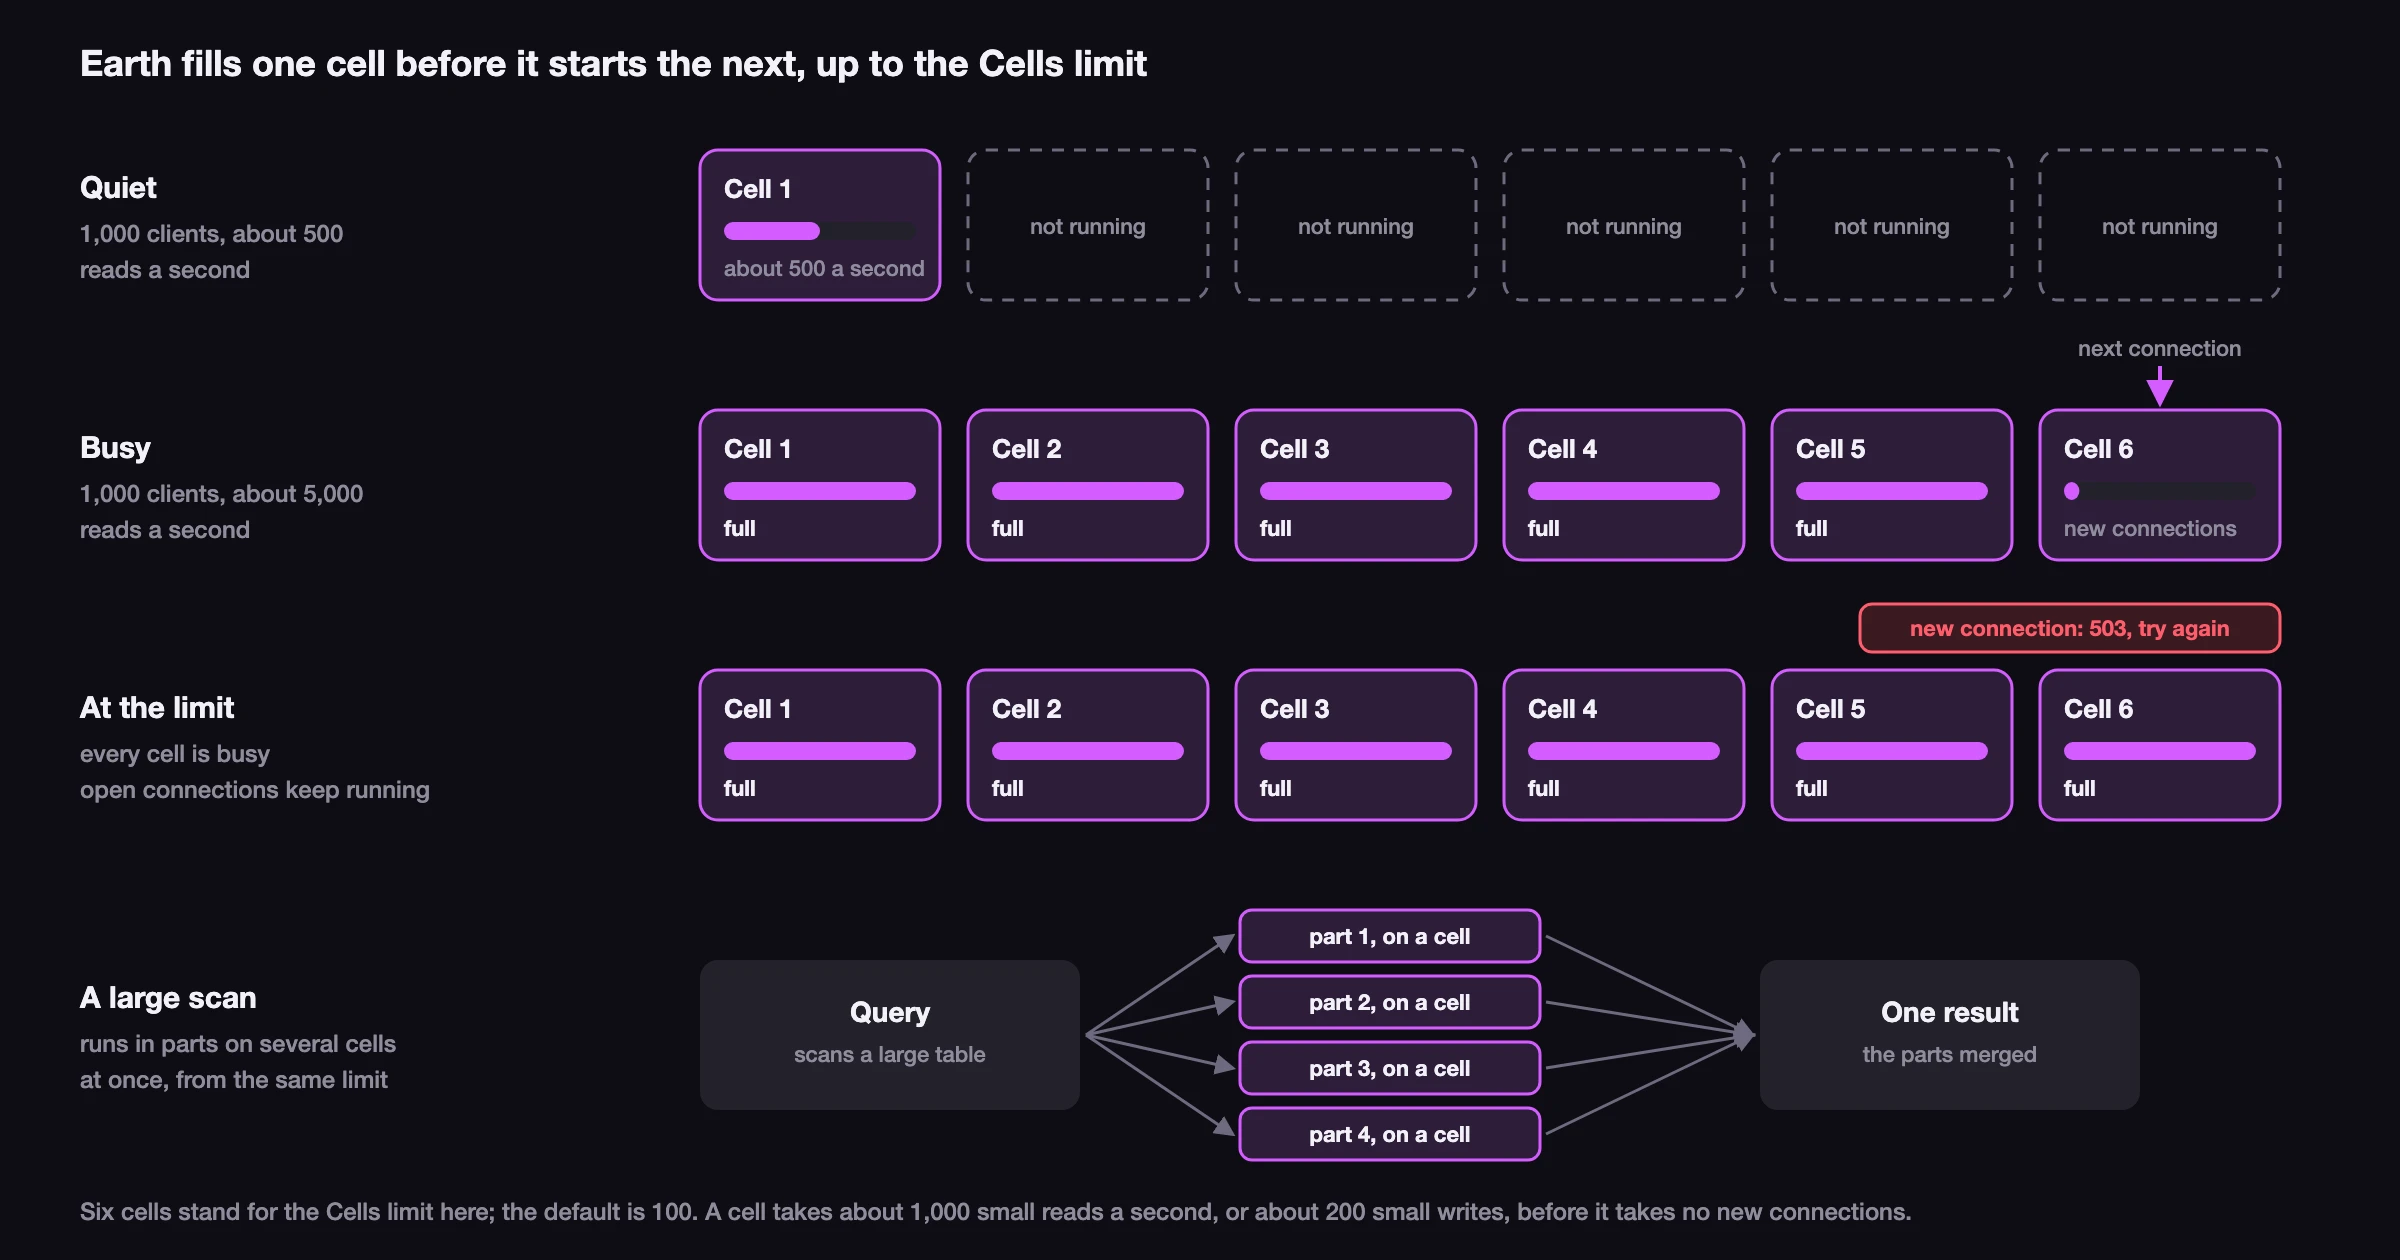
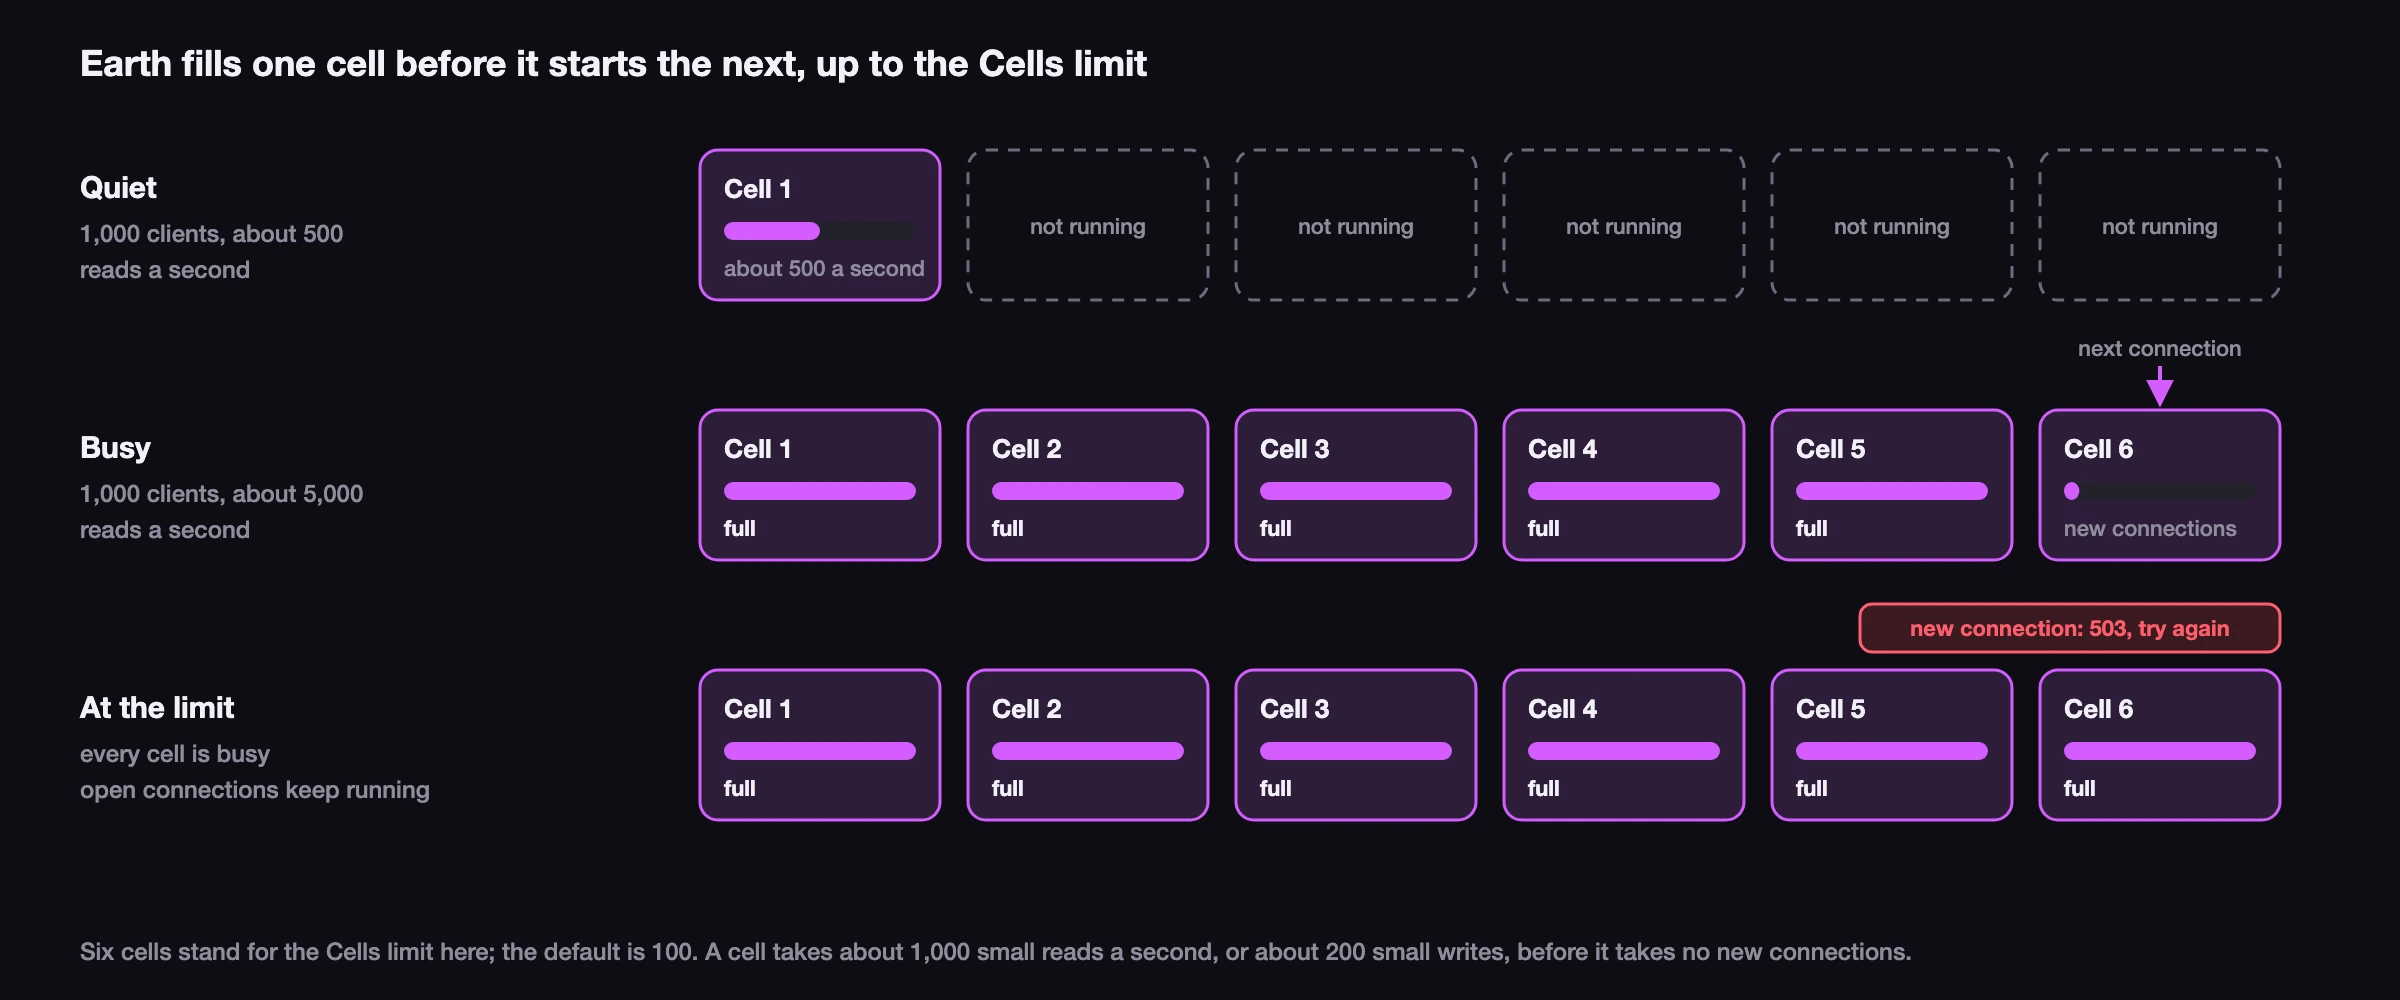
Latest Earth updates (#2173)

diff --git a/scripts/diagrams/figures/earth.ts b/scripts/diagrams/figures/earth.ts
@@ -5,8 +5,8 @@ import type { Verified } from "../provenance";
 
 export const verified: Verified = {
     against:
-        "the Earth page's sizing example; capacity_msgs_per_s 1,300 with admit_fraction 0.8 in config/limits.toml, and about 3 units a commit in docs/design/EXECUTOR-CPU.md, of surrealdb/earth (9a218d9)",
-    on: "2026-11-05",
+        "the Earth page's sizing example; capacity_msgs_per_s 1,300 with admit_fraction 0.8 in config/limits.toml, and about 3 units a commit in docs/design/EXECUTOR-CPU.md, of surrealdb/earth (9a218d9); large scans do not run across cells in production, so the figure no longer draws one",
+    on: "2026-11-09",
 };
 
 const CELL_W = 240;
@@ -59,12 +59,11 @@ const rowLabel = (s: string[], t: Theme, y: number, title: string, lines: string
     });
 };
 
-// How an Earth instance adds cells as load grows, up to its Cells limit, and
-// how a large scan runs across several of them
+// How an Earth instance adds cells as load grows, up to its Cells limit
 const earthCells: Figure = {
     name: "earth-cells",
     width: 2400,
-    height: 1260,
+    height: 1000,
     draw(t: Theme) {
         const s: string[] = [markers([t.accent, t.line, t.red])];
         s.push(
@@ -111,40 +110,10 @@ const earthCells: Figure = {
             }),
         );
 
-        // A large scan: parts on several cells, merged into one result
-        const y0 = 960;
-        rowLabel(s, t, y0, "A large scan", [
-            "runs in parts on several cells",
-            "at once, from the same limit",
-        ]);
-        s.push(rect(X0, y0, 380, CELL_H, { fill: t.card }));
-        s.push(text(X0 + 190, y0 + 62, "Query", { size: 28, fill: t.text, weight: 700 }));
-        s.push(text(X0 + 190, y0 + 102, "scans a large table", { size: 22, fill: t.muted }));
-        const px = 1240;
-        const pw = 300;
-        const ph = 52;
-        const pTop = y0 + CELL_H / 2 - (4 * ph + 3 * 14) / 2;
-        for (let i = 0; i < 4; i++) {
-            const py = pTop + i * (ph + 14);
-            s.push(rect(px, py, pw, ph, { fill: t.accentBg, stroke: t.accent, r: 12 }));
-            s.push(
-                text(px + pw / 2, py + 34, `part ${i + 1}, on a cell`, {
-                    size: 22,
-                    fill: t.text,
-                    weight: 600,
-                }),
-            );
-            s.push(arrow(X0 + 386, y0 + CELL_H / 2, px - 8, py + ph / 2, t.line, 3));
-            s.push(arrow(px + pw + 6, py + ph / 2, 1752, y0 + CELL_H / 2, t.line, 3));
-        }
-        s.push(rect(1760, y0, 380, CELL_H, { fill: t.card }));
-        s.push(text(1950, y0 + 62, "One result", { size: 28, fill: t.text, weight: 700 }));
-        s.push(text(1950, y0 + 102, "the parts merged", { size: 22, fill: t.muted }));
-
         s.push(
             text(
                 80,
-                1220,
+                960,
                 "Six cells stand for the Cells limit here; the default is 100. A cell takes about 1,000 small reads a second, or about 200 small writes, before it takes no new connections.",
                 { size: 24, fill: t.muted, anchor: "start" },
             ),
